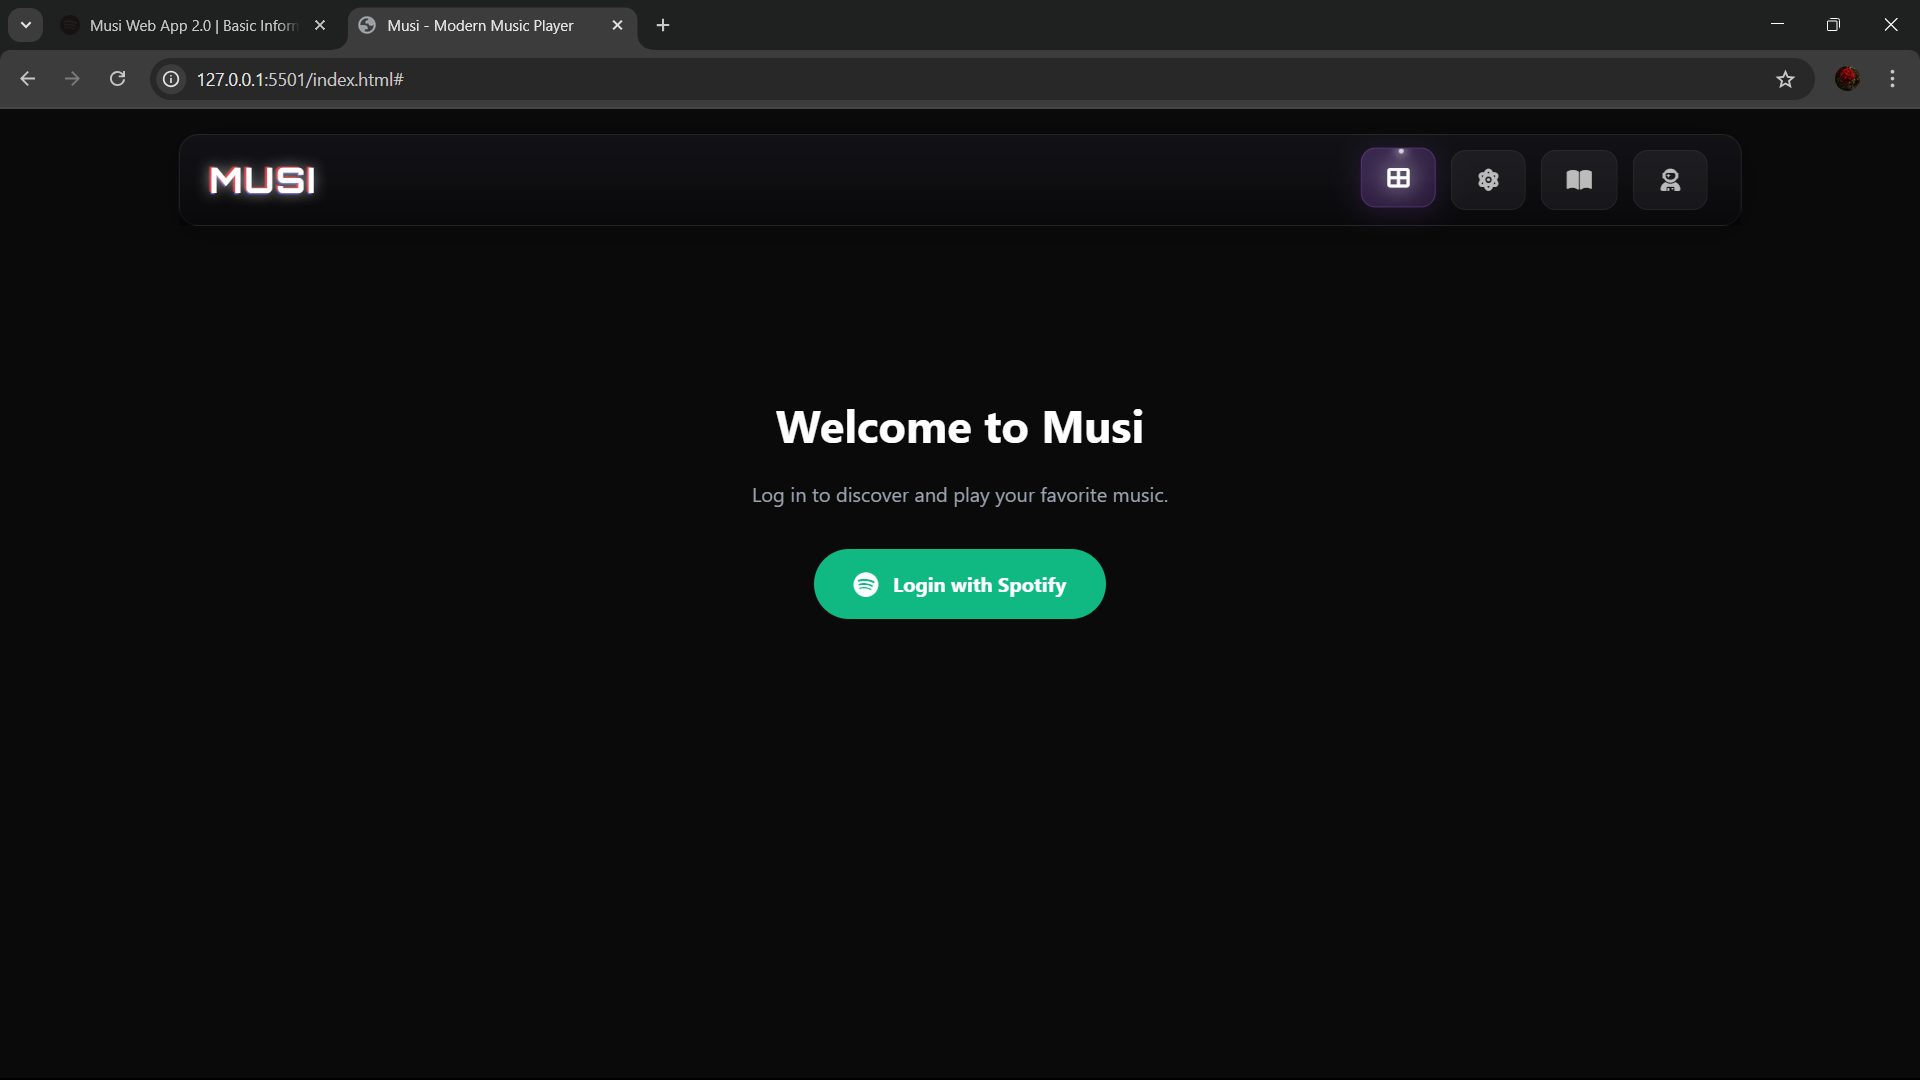
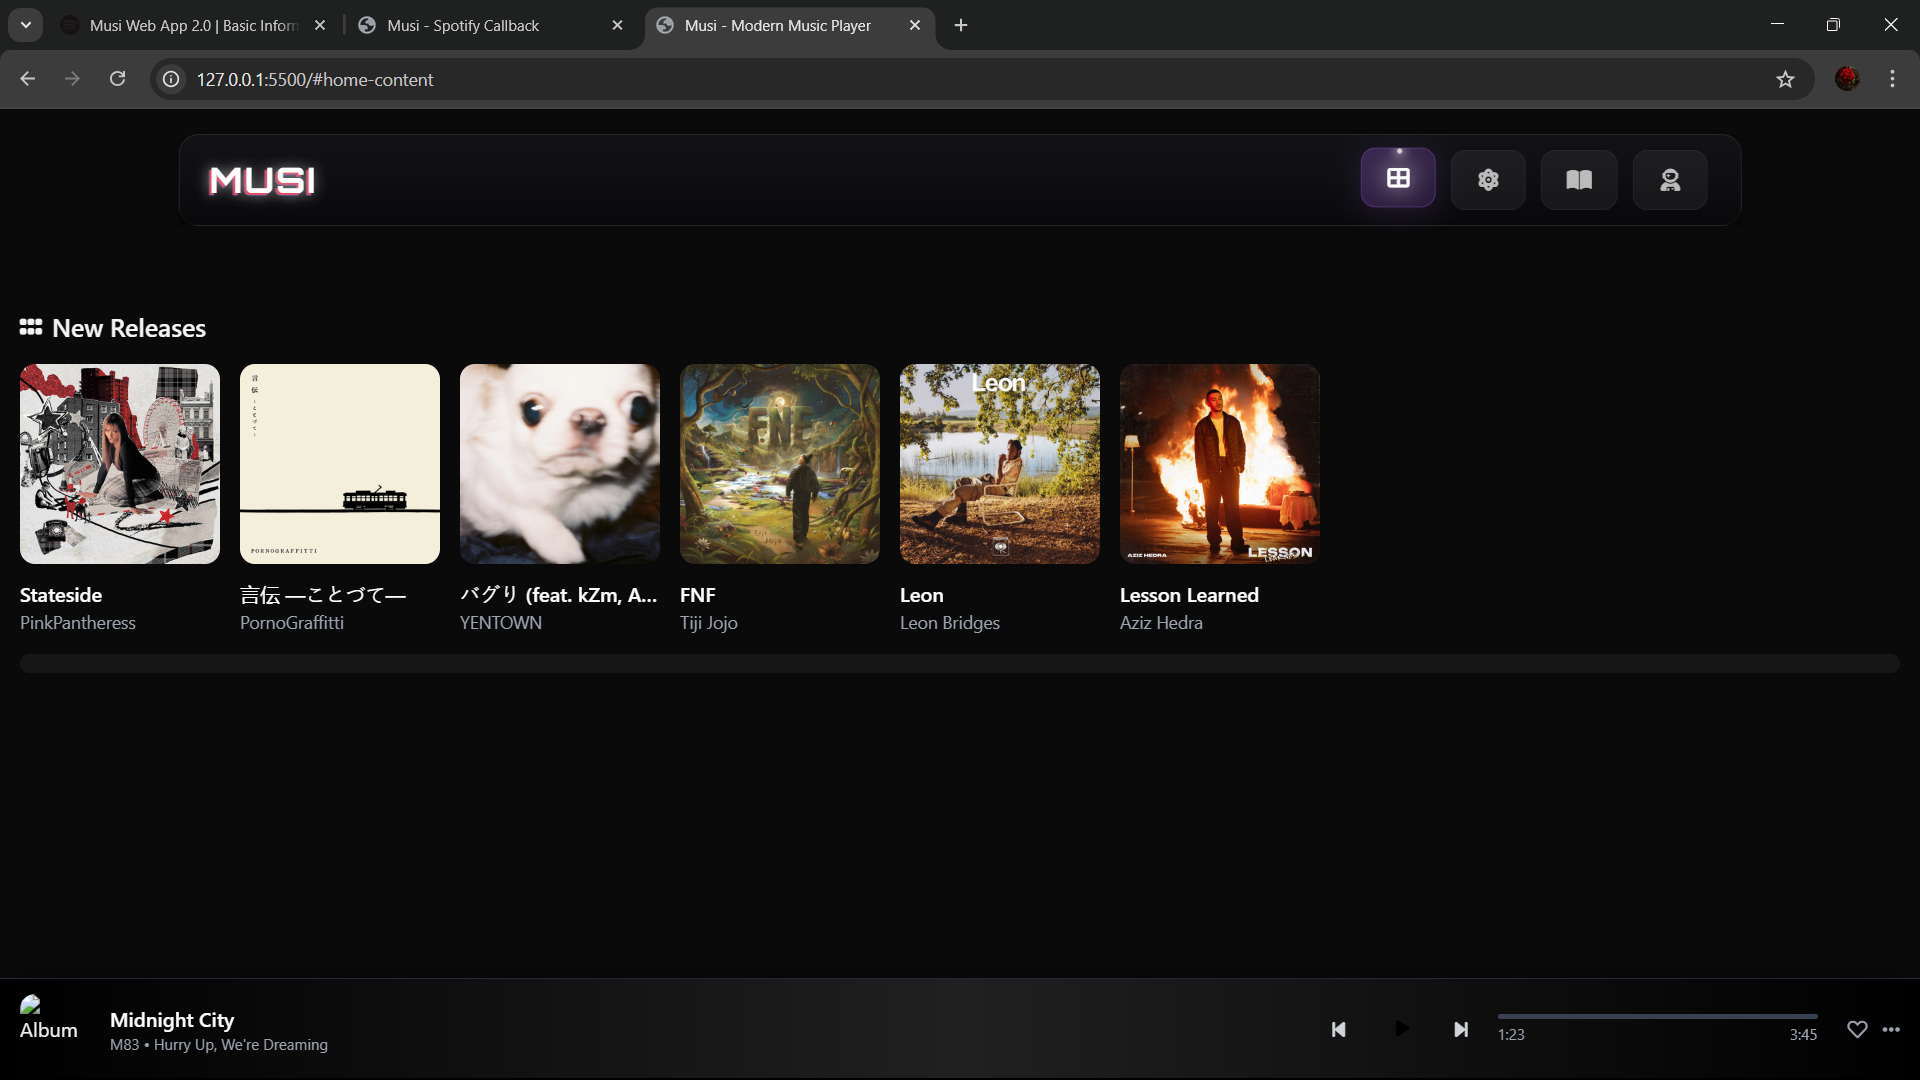
spotify premium users

diff --git a/src/js/main.js b/src/js/main.js
@@ -1,9 +1,11 @@
+
 import { spotifyAuth } from './spotifyAuth.js';
 import { spotifyApi } from './spotifyApi.js';
 import { createCarousel } from './carousel.js';
 
 let spotifyPlayer = null;
 let deviceId = null;
+let isPremiumUser = false;
 
 // Global UI elements (declared here to be accessible by SDK callbacks)
 let floatingNowPlaying;
@@ -44,72 +46,99 @@ const loadAuthenticatedContent = async () => {
     if (preAuthContent) preAuthContent.classList.add('hidden');
     if (authenticatedContent) authenticatedContent.classList.remove('hidden');
 
+    const userProfile = await spotifyApi.getUserProfile();
+    if (userProfile && userProfile.product) {
+        isPremiumUser = (userProfile.product === 'premium');
+        console.log('main.js: User product type:', userProfile.product, ', isPremiumUser:', isPremiumUser);
+    }
+
+    if (!isPremiumUser) {
+        authenticatedContent.innerHTML = `
+            <div class="text-center py-10">
+                <h2 class="text-3xl font-bold text-red-400 mb-4">Premium Account Required</h2>
+                <p class="text-gray-400 mb-6">Spotify playback and some content features are restricted to Premium users.</p>
+                <p class="text-gray-400">Please upgrade your Spotify account to enjoy full functionality.</p>
+            </div>
+        `;
+        // Disable play buttons and SDK initialization for free users
+        if (playPauseButton) playPauseButton.style.display = 'none';
+        if (prevButton) prevButton.style.display = 'none';
+        if (nextButton) nextButton.style.display = 'none';
+        return;
+    }
+
     // Fetch and display featured playlists
     const featuredPlaylistsData = await spotifyApi.getFeaturedPlaylists();
     if (featuredPlaylistsData && featuredPlaylistsData.playlists && featuredPlaylistsData.playlists.items) {
         createCarousel('featured-playlists-carousel', 'Featured Playlists', featuredPlaylistsData.playlists.items);
+    } else {
+        console.warn('main.js: Could not fetch featured playlists.', featuredPlaylistsData);
+        // Optionally display a message or fallback content
     }
 
     // Fetch and display new releases
     const newReleasesData = await spotifyApi.getNewReleases();
     if (newReleasesData && newReleasesData.albums && newReleasesData.albums.items) {
         createCarousel('new-releases-carousel', 'New Releases', newReleasesData.albums.items);
-    }
-};
-
-// Spotify Web Playback SDK Initialization
-window.onSpotifyWebPlaybackSDKReady = () => {
-    console.log('main.js: Spotify Web Playback SDK is ready.');
-    const token = spotifyAuth.getAccessToken();
-    if (!token) {
-        console.error('Spotify Web Playback SDK: No access token.');
-        return;
+    } else {
+        console.warn('main.js: Could not fetch new releases.', newReleasesData);
+        // Optionally display a message or fallback content
     }
 
-    spotifyPlayer = new Spotify.Player({
-        name: 'Musi Web Player',
-        getOAuthToken: cb => { cb(token); },
-        volume: 0.5
-    });
-
-    // Ready
-    spotifyPlayer.addListener('ready', ({ device_id }) => {
-        console.log('Ready with Device ID', device_id);
-        deviceId = device_id;
-        // Transfer playback to this device
-        spotifyApi.transferPlayback(deviceId);
-    });
-
-    // Not Ready
-    spotifyPlayer.addListener('not_ready', ({ device_id }) => {
-        console.log('Device ID has gone offline', device_id);
-    });
-
-    // Error handling
-    spotifyPlayer.addListener('initialization_error', ({ message }) => {
-        console.error(message);
-    });
-    spotifyPlayer.addListener('authentication_error', ({ message }) => {
-        console.error(message);
-        spotifyAuth.clearTokens(); // Clear tokens if authentication fails
-    });
-    spotifyPlayer.addListener('account_error', ({ message }) => {
-        console.error(message);
-    });
-    spotifyPlayer.addListener('playback_error', ({ message }) => {
-        console.error(message);
-    });
-
-    // Playback status updates
-    spotifyPlayer.addListener('player_state_changed', state => {
-        if (!state) {
+    // Initialize Spotify Web Playback SDK only for premium users
+    window.onSpotifyWebPlaybackSDKReady = () => {
+        console.log('main.js: Spotify Web Playback SDK is ready.');
+        const token = spotifyAuth.getAccessToken();
+        if (!token) {
+            console.error('Spotify Web Playback SDK: No access token.');
             return;
         }
-        updateNowPlayingUI(state.track_window.current_track);
-    });
 
-    // Connect to the player!
-    spotifyPlayer.connect();
+        spotifyPlayer = new Spotify.Player({
+            name: 'Musi Web Player',
+            getOAuthToken: cb => { cb(token); },
+            volume: 0.5
+        });
+
+        // Ready
+        spotifyPlayer.addListener('ready', ({ device_id }) => {
+            console.log('Ready with Device ID', device_id);
+            deviceId = device_id;
+            // Transfer playback to this device
+            spotifyApi.transferPlayback(deviceId);
+        });
+
+        // Not Ready
+        spotifyPlayer.addListener('not_ready', ({ device_id }) => {
+            console.log('Device ID has gone offline', device_id);
+        });
+
+        // Error handling
+        spotifyPlayer.addListener('initialization_error', ({ message }) => {
+            console.error(message);
+        });
+        spotifyPlayer.addListener('authentication_error', ({ message }) => {
+            console.error(message);
+            spotifyAuth.clearTokens(); // Clear tokens if authentication fails
+        });
+        spotifyPlayer.addListener('account_error', ({ message }) => {
+            console.error(message);
+        });
+        spotifyPlayer.addListener('playback_error', ({ message }) => {
+            console.error(message);
+        });
+
+        // Playback status updates
+        spotifyPlayer.addListener('player_state_changed', state => {
+            if (!state) {
+                return;
+            }
+            updateNowPlayingUI(state.track_window.current_track);
+        });
+
+        // Connect to the player!
+        spotifyPlayer.connect();
+    };
 };
 
 document.addEventListener('DOMContentLoaded', async () => {
@@ -293,8 +322,6 @@ document.addEventListener('DOMContentLoaded', async () => {
 
     // Spotify Login Integration
     const spotifyLoginButton = document.getElementById('spotify-login-button');
-    const preAuthContent = document.getElementById('pre-auth-content');
-    const authenticatedContent = document.getElementById('authenticated-content');
 
     console.log('main.js: spotifyLoginButton element:', spotifyLoginButton);
 

diff --git a/src/js/spotifyAuth.js b/src/js/spotifyAuth.js
@@ -1,4 +1,3 @@
-
 const CLIENT_ID = '5061bee8e0a84d35a3aef36dc488de31'; // Replace with your Spotify Client ID
 const REDIRECT_URI = 'http://127.0.0.1:5500/callback.html'; // Replace with your redirect URI
 
@@ -29,11 +28,14 @@ const spotifyAuth = {
     },
 
     handleCallback: async () => {
+        console.log('spotifyAuth.js: handleCallback called.');
         const urlParams = new URLSearchParams(window.location.search);
         const code = urlParams.get('code');
+        console.log('spotifyAuth.js: Authorization code received:', code);
 
         if (code) {
             try {
+                console.log('spotifyAuth.js: Attempting to exchange code for tokens...');
                 const tokenResponse = await fetch('https://accounts.spotify.com/api/token', {
                     method: 'POST',
                     headers: {
@@ -48,19 +50,22 @@ const spotifyAuth = {
                 });
 
                 if (!tokenResponse.ok) {
-                    throw new Error(`HTTP error! status: ${tokenResponse.status}`);
+                    const errorText = await tokenResponse.text();
+                    throw new Error(`HTTP error! status: ${tokenResponse.status}, response: ${errorText}`);
                 }
 
                 const data = await tokenResponse.json();
+                console.log('spotifyAuth.js: Tokens received:', data);
                 spotifyAuth.saveTokens(data.access_token, data.refresh_token, data.expires_in);
+                console.log('spotifyAuth.js: Tokens saved. Redirecting to home page...');
                 window.location.href = '/'; // Redirect to home page
             } catch (error) {
-                console.error('Error exchanging code for tokens:', error);
+                console.error('spotifyAuth.js: Error exchanging code for tokens:', error);
                 // Optionally, redirect to an error page or show a message
                 window.location.href = '/?error=auth_failed';
             }
         } else {
-            console.error('No authorization code found in URL.');
+            console.error('spotifyAuth.js: No authorization code found in URL.');
             window.location.href = '/?error=no_code';
         }
     },
@@ -69,6 +74,7 @@ const spotifyAuth = {
         localStorage.setItem('spotify_access_token', accessToken);
         localStorage.setItem('spotify_refresh_token', refreshToken);
         localStorage.setItem('spotify_token_expires_at', Date.now() + expiresIn * 1000);
+        console.log('spotifyAuth.js: Tokens successfully stored in localStorage.');
     },
 
     getAccessToken: () => {
@@ -76,13 +82,16 @@ const spotifyAuth = {
         const expiresAt = localStorage.getItem('spotify_token_expires_at');
 
         if (!accessToken || !expiresAt) {
+            console.log('spotifyAuth.js: No access token or expiry found in localStorage.');
             return null;
         }
 
         if (Date.now() < expiresAt) {
+            console.log('spotifyAuth.js: Access token is valid.');
             return accessToken;
         }
 
+        console.log('spotifyAuth.js: Access token expired. Attempting to refresh...');
         return spotifyAuth.refreshAccessToken();
     },
 
@@ -91,9 +100,10 @@ const spotifyAuth = {
     },
 
     refreshAccessToken: async () => {
+        console.log('spotifyAuth.js: refreshAccessToken called.');
         const refreshToken = spotifyAuth.getRefreshToken();
         if (!refreshToken) {
-            console.error('No refresh token available.');
+            console.error('spotifyAuth.js: No refresh token available.');
             spotifyAuth.clearTokens();
             return null;
         }
@@ -112,14 +122,16 @@ const spotifyAuth = {
             });
 
             if (!refreshResponse.ok) {
-                throw new Error(`HTTP error! status: ${refreshResponse.status}`);
+                const errorText = await refreshResponse.text();
+                throw new Error(`HTTP error! status: ${refreshResponse.status}, response: ${errorText}`);
             }
 
             const data = await refreshResponse.json();
+            console.log('spotifyAuth.js: Refreshed tokens received:', data);
             spotifyAuth.saveTokens(data.access_token, data.refresh_token || refreshToken, data.expires_in);
             return data.access_token;
         } catch (error) {
-            console.error('Error refreshing access token:', error);
+            console.error('spotifyAuth.js: Error refreshing access token:', error);
             spotifyAuth.clearTokens();
             return null;
         }
@@ -129,12 +141,15 @@ const spotifyAuth = {
         localStorage.removeItem('spotify_access_token');
         localStorage.removeItem('spotify_refresh_token');
         localStorage.removeItem('spotify_token_expires_at');
+        console.log('spotifyAuth.js: All tokens cleared from localStorage.');
         // Optionally, redirect to login page
         window.location.href = '/';
     },
 
     isAuthenticated: () => {
-        return !!spotifyAuth.getAccessToken();
+        const token = spotifyAuth.getAccessToken();
+        console.log('spotifyAuth.js: isAuthenticated check. Token:', token ? 'Exists' : 'Does not exist');
+        return !!token;
     }
 };
 

diff --git a/callback.html b/callback.html
@@ -15,8 +15,8 @@
             <div class="animate-spin rounded-full h-16 w-16 border-t-2 border-b-2 border-musi-accent mx-auto"></div>
         </div>
     </div>
-    <script type="module" src="src/js/spotifyAuth.js"></script>
-    <script>
+    <script type="module">
+        import { spotifyAuth } from './src/js/spotifyAuth.js';
         document.addEventListener('DOMContentLoaded', () => {
             spotifyAuth.handleCallback();
         });
